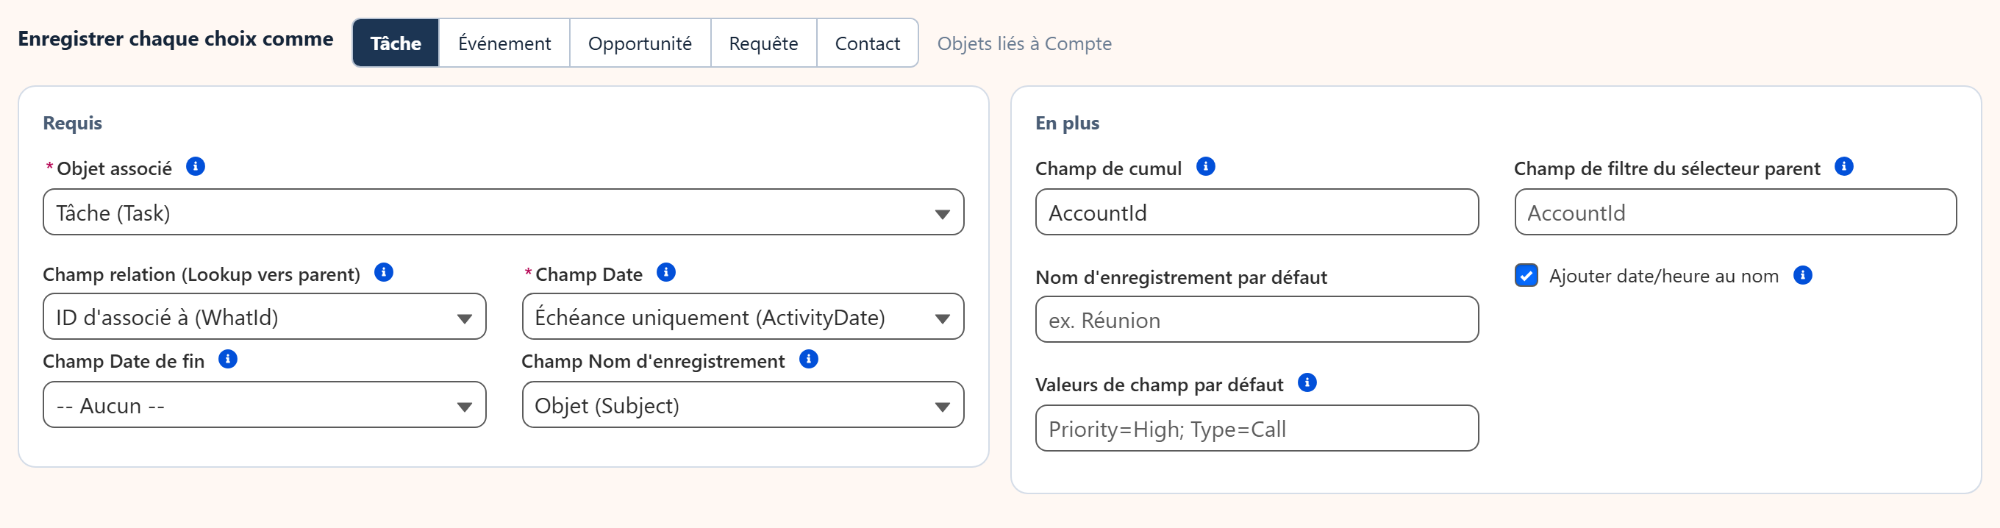
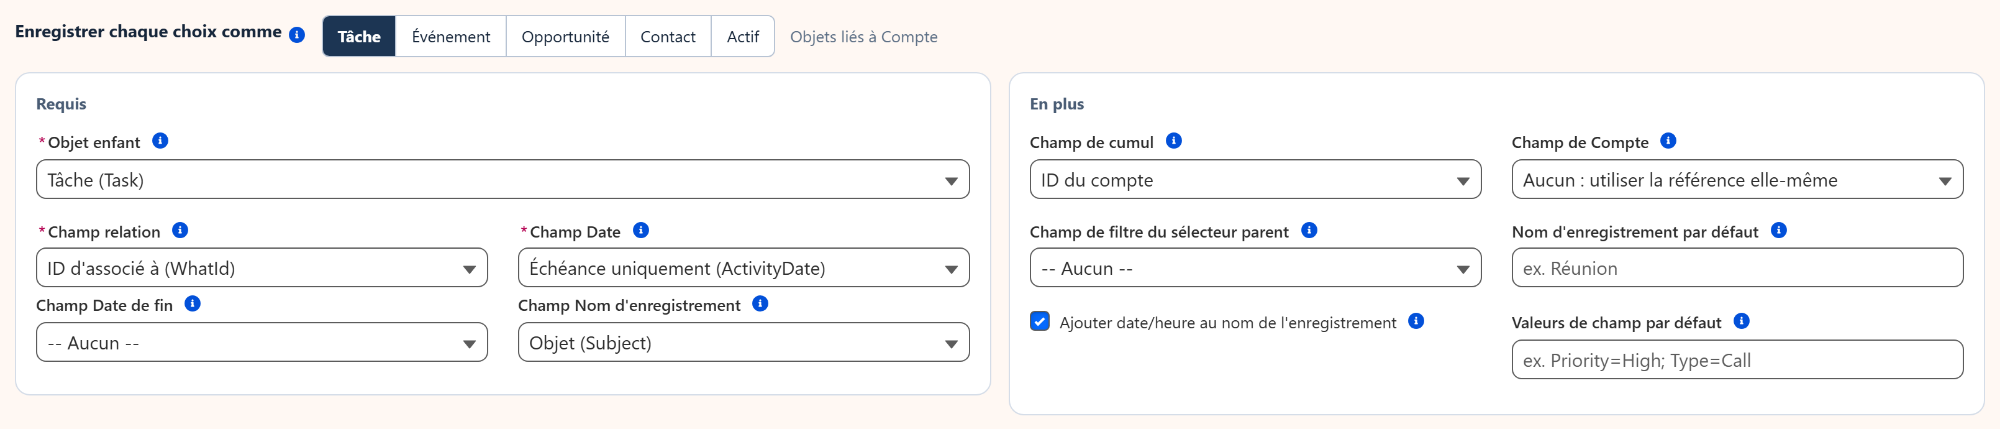
Related-records post: setup screenshot retaken with the Rollup Field picker, in all 9 languages
The wizard image now shows Account ID picked in Rollup Field and Field on Account left on None: use the lookup itself, instead of the old typed AccountId box. Alt, caption, JSON-LD and sitemap captions say it is picked, per language; new size 2000x429.

diff --git a/blog/salesforce-calendar-related-records.html b/blog/salesforce-calendar-related-records.html
@@ -209,7 +209,7 @@
                 {"@type": "FAQPage", "mainEntity": [{"@type": "Question", "name": "How do I show contact and opportunity tasks on a Salesforce account calendar?", "acceptedAnswer": {"@type": "Answer", "text": "Put the MultiDatePick Dates component on the Account record page with Task as the related object and WhatId as the Relationship Field API Name, then enter AccountId in Rollup Field. Salesforce stores the account on tasks logged against the account's contacts and opportunities, so those tasks show on the account calendar next to the account's own."}}, {"@type": "Question", "name": "Can a Salesforce calendar show grandchild records?", "acceptedAnswer": {"@type": "Answer", "text": "Yes. Rollup Field accepts a path through lookups, such as Project__r.Account__c, so a calendar on the Account page shows the records of every project that belongs to the account. A path can be up to five levels deep, which is as far as Salesforce lets a query follow lookups."}}, {"@type": "Question", "name": "Where are new records saved when Rollup Field is set?", "acceptedAnswer": {"@type": "Answer", "text": "Through the Relationship Field API Name, exactly as before. Rollup Field only adds records to what the calendar shows. A day you pick on the Account page saves a record linked to that account, and the related records keep their own parents."}}, {"@type": "Question", "name": "Does the rollup respect sharing and field-level security?", "acceptedAnswer": {"@type": "Answer", "text": "Yes. The calendar loads its records as the person viewing the page, so record sharing and field-level security apply. A user sees the related records they already have access to in Salesforce, and nothing more."}}, {"@type": "Question", "name": "Which MultiDatePick components support Rollup Field?", "acceptedAnswer": {"@type": "Answer", "text": "The Dates and Dates & Times components, for any object they save to, standard or custom. The Resource Booking component uses the same Rollup Field with This Record Only, so its Timeline, Week, Utilization and Agenda views show the bookings tied to the page record through the lookup path."}}]},
                 {"@type": "ImageObject", "contentUrl": "https://multidatepick.com/images/blog/salesforce-account-calendar-direct-tasks-only.png", "caption": "Salesforce account calendar before Rollup Field: Account Visits marks only the four November days with tasks logged on the account itself", "creditText": "MultiDatePick", "creator": {"@type": "Organization", "name": "MultiDatePick"}, "copyrightNotice": "© 2026 MultiDatePick"},
                 {"@type": "ImageObject", "contentUrl": "https://multidatepick.com/images/blog/salesforce-account-calendar-related-records.png", "caption": "Salesforce account calendar with related records: Rollup Field AccountId adds contact and opportunity tasks, eleven November days in status colors", "creditText": "MultiDatePick", "creator": {"@type": "Organization", "name": "MultiDatePick"}, "copyrightNotice": "© 2026 MultiDatePick"},
-                {"@type": "ImageObject", "contentUrl": "https://multidatepick.com/images/blog/salesforce-calendar-rollup-field-setup.png", "caption": "Show related records on a Salesforce calendar: Task saved through Related To (WhatId) on Due Date Only, with AccountId in Rollup Field", "creditText": "MultiDatePick", "creator": {"@type": "Organization", "name": "MultiDatePick"}, "copyrightNotice": "© 2026 MultiDatePick"}
+                {"@type": "ImageObject", "contentUrl": "https://multidatepick.com/images/blog/salesforce-calendar-rollup-field-setup.png", "caption": "Show related records on a Salesforce calendar: Task saved through Related To (WhatId) on Due Date Only, Account ID picked in Rollup Field, Field on Account left on None", "creditText": "MultiDatePick", "creator": {"@type": "Organization", "name": "MultiDatePick"}, "copyrightNotice": "© 2026 MultiDatePick"}
             ]
         }
         </script>
@@ -277,8 +277,8 @@
                     <li><strong>Drop the component on the Account page.</strong> In Lightning App Builder, add the MultiDatePick Dates component and enter the name in <strong>Config Name</strong>. Every account now shows its whole schedule.</li>
                 </ol>
                 <figure class="sc-shot">
-                    <img src="/images/blog/salesforce-calendar-rollup-field-setup.png" alt="Show related records on a Salesforce calendar: Task saved through Related To (WhatId) on Due Date Only, with AccountId in Rollup Field" loading="lazy" width="2000" height="528" data-zoomable>
-                    <figcaption>Task on an Account page: saved through Related To, rolled up through AccountId.</figcaption>
+                    <img src="/images/blog/salesforce-calendar-rollup-field-setup.png" alt="Show related records on a Salesforce calendar: Task saved through Related To (WhatId) on Due Date Only, Account ID picked in Rollup Field, Field on Account left on None" loading="lazy" width="2000" height="429" data-zoomable>
+                    <figcaption>Task on an Account page: saved through Related To, rolled up through Account ID, picked from the list.</figcaption>
                 </figure>
                 <p>Want to create the tasks from the same calendar? <a href="/blog/create-salesforce-tasks-calendar.html">Pick the days and save one Salesforce Task per day</a>. Already have a calendar on the page? Open its config in the wizard, pick the Rollup Field and save. Every page that uses the config picks it up on the next load. The same <strong>Rollup Field</strong> property is also on the component in Lightning App Builder.</p>
 

diff --git a/hi/blog/salesforce-calendar-related-records.html b/hi/blog/salesforce-calendar-related-records.html
@@ -284,7 +284,7 @@
             {
                 "@type": "ImageObject",
                 "contentUrl": "https://multidatepick.com/images/hi/blog/salesforce-calendar-rollup-field-setup.png",
-                "caption": "Salesforce कैलेंडर पर संबंधित रिकॉर्ड दिखाएँ: Related To (WhatId) और Due Date Only से सहेजा गया Task, रोलअप फ़ील्ड में AccountId",
+                "caption": "Salesforce कैलेंडर पर संबंधित रिकॉर्ड दिखाएँ: Related To (WhatId) और Due Date Only से सहेजा गया Task, रोलअप फ़ील्ड में Account ID चुना गया, Account पर फ़ील्ड कोई नहीं पर छोड़ा गया",
                 "creditText": "MultiDatePick",
                 "creator": {
                     "@type": "Organization",
@@ -359,8 +359,8 @@
                     <li><strong>कंपोनेंट को अकाउंट पेज पर लगाएँ।</strong> Lightning App Builder में MultiDatePick Dates कंपोनेंट जोड़ें और <strong>Config Name</strong> में वही नाम डालें। अब हर अकाउंट अपना पूरा शेड्यूल दिखाता है।</li>
                 </ol>
                 <figure class="sc-shot">
-                    <img src="/images/hi/blog/salesforce-calendar-rollup-field-setup.png" alt="Salesforce कैलेंडर पर संबंधित रिकॉर्ड दिखाएँ: Related To (WhatId) और Due Date Only से सहेजा गया Task, रोलअप फ़ील्ड में AccountId" loading="lazy" width="2000" height="528" data-zoomable>
-                    <figcaption>अकाउंट पेज पर टास्क: Related To से सहेजा गया, AccountId से रोलअप।</figcaption>
+                    <img src="/images/hi/blog/salesforce-calendar-rollup-field-setup.png" alt="Salesforce कैलेंडर पर संबंधित रिकॉर्ड दिखाएँ: Related To (WhatId) और Due Date Only से सहेजा गया Task, रोलअप फ़ील्ड में Account ID चुना गया, Account पर फ़ील्ड कोई नहीं पर छोड़ा गया" loading="lazy" width="2000" height="429" data-zoomable>
+                    <figcaption>अकाउंट पेज पर टास्क: Related To से सहेजा गया, सूची से चुने गए Account ID से रोलअप।</figcaption>
                 </figure>
                 <p>उसी कैलेंडर से टास्क बनाना चाहते हैं? <a href="/hi/blog/create-salesforce-tasks-calendar.html">दिन चुनें और हर दिन का एक Salesforce Task सहेजें</a>। पेज पर पहले से कैलेंडर है? विज़ार्ड में उसका कॉन्फ़िगरेशन खोलें, रोलअप फ़ील्ड चुनें और सहेजें। उस कॉन्फ़िगरेशन वाला हर पेज अगली बार लोड होते ही इसे अपना लेता है। यही <strong>Rollup Field</strong> प्रॉपर्टी Lightning App Builder में कंपोनेंट पर भी है।</p>
 

diff --git a/ja/blog/salesforce-calendar-related-records.html b/ja/blog/salesforce-calendar-related-records.html
@@ -284,7 +284,7 @@
             {
                 "@type": "ImageObject",
                 "contentUrl": "https://multidatepick.com/images/ja/blog/salesforce-calendar-rollup-field-setup.png",
-                "caption": "Salesforce カレンダーに関連レコードを表示する設定: ToDo を関連先 (WhatId) と期日のみで保存し、積み上げ項目は AccountId",
+                "caption": "Salesforce カレンダーに関連レコードを表示する設定: ToDo を関連先 (WhatId) と期日のみで保存し、積み上げ項目で取引先 ID を選択、取引先 の項目は「なし」のまま",
                 "creditText": "MultiDatePick",
                 "creator": {
                     "@type": "Organization",
@@ -359,8 +359,8 @@
                     <li><strong>取引先ページにコンポーネントを配置します。</strong> Lightning App Builder で MultiDatePick の Dates コンポーネントを追加し、<strong>Config Name</strong> に設定名を入力します。これで、すべての取引先にその取引先の予定全体が表示されます。</li>
                 </ol>
                 <figure class="sc-shot">
-                    <img src="/images/ja/blog/salesforce-calendar-rollup-field-setup.png" alt="Salesforce カレンダーに関連レコードを表示する設定: ToDo を関連先 (WhatId) と期日のみで保存し、積み上げ項目は AccountId" loading="lazy" width="2000" height="528" data-zoomable>
-                    <figcaption>取引先ページの ToDo: 関連先で保存し、AccountId で積み上げ。</figcaption>
+                    <img src="/images/ja/blog/salesforce-calendar-rollup-field-setup.png" alt="Salesforce カレンダーに関連レコードを表示する設定: ToDo を関連先 (WhatId) と期日のみで保存し、積み上げ項目で取引先 ID を選択、取引先 の項目は「なし」のまま" loading="lazy" width="2000" height="429" data-zoomable>
+                    <figcaption>取引先ページの ToDo: 関連先で保存し、リストから選んだ取引先 ID で積み上げ。</figcaption>
                 </figure>
                 <p>同じカレンダーから ToDo も作成したい場合は、<a href="/ja/blog/create-salesforce-tasks-calendar.html">日を選んで、1 日 1 件の Salesforce ToDo を保存</a>できます。すでにページにカレンダーがある場合は、ウィザードでその設定を開き、積み上げ項目を選んで保存するだけです。その設定を使うすべてのページに、次回の読み込みから反映されます。同じ<strong>積み上げ項目</strong>のプロパティは、Lightning App Builder のコンポーネントにもあります。</p>
 

diff --git a/es/blog/calendario-cuenta-salesforce-registros-relacionados.html b/es/blog/calendario-cuenta-salesforce-registros-relacionados.html
@@ -284,7 +284,7 @@
             {
                 "@type": "ImageObject",
                 "contentUrl": "https://multidatepick.com/images/es/blog/salesforce-calendario-campo-rollup-configuracion.png",
-                "caption": "Registros relacionados en un calendario de Salesforce: Tarea guardada por Relacionado con (WhatId) en Fecha de vencimiento solamente y AccountId en Rollup Field",
+                "caption": "Registros relacionados en un calendario de Salesforce: Tarea guardada por Relacionado con (WhatId) en Fecha de vencimiento solamente, Id. de la cuenta elegido en Campo de acumulación y Campo de Cuenta en Ninguno",
                 "creditText": "MultiDatePick",
                 "creator": {
                     "@type": "Organization",
@@ -359,8 +359,8 @@
                     <li><strong>Coloca el componente en la página de la cuenta.</strong> En Lightning App Builder, añade el componente Dates de MultiDatePick y escribe el nombre en <strong>Config Name</strong>. Ahora cada cuenta muestra toda su agenda.</li>
                 </ol>
                 <figure class="sc-shot">
-                    <img src="/images/es/blog/salesforce-calendario-campo-rollup-configuracion.png" alt="Registros relacionados en un calendario de Salesforce: Tarea guardada por Relacionado con (WhatId) en Fecha de vencimiento solamente y AccountId en Rollup Field" loading="lazy" width="2000" height="528" data-zoomable>
-                    <figcaption>Tarea en una página de cuenta: se guarda mediante Relacionado con y se acumula mediante AccountId.</figcaption>
+                    <img src="/images/es/blog/salesforce-calendario-campo-rollup-configuracion.png" alt="Registros relacionados en un calendario de Salesforce: Tarea guardada por Relacionado con (WhatId) en Fecha de vencimiento solamente, Id. de la cuenta elegido en Campo de acumulación y Campo de Cuenta en Ninguno" loading="lazy" width="2000" height="429" data-zoomable>
+                    <figcaption>Tarea en una página de cuenta: se guarda mediante Relacionado con y se acumula mediante Id. de la cuenta, elegido de la lista.</figcaption>
                 </figure>
                 <p>¿Quieres crear las tareas desde el mismo calendario? <a href="/es/blog/crear-varias-tareas-salesforce-calendario.html">Elige los días y guarda una tarea de Salesforce por día</a>. ¿Ya tienes un calendario en la página? Abre su configuración en el asistente, elige el campo de acumulación y guarda. Todas las páginas que usan esa configuración lo aplican en la siguiente carga. En Lightning App Builder, el componente tiene la misma propiedad como <strong>Rollup Field</strong>.</p>
 

diff --git a/fr/blog/calendrier-compte-salesforce-enregistrements-associes.html b/fr/blog/calendrier-compte-salesforce-enregistrements-associes.html
@@ -284,7 +284,7 @@
             {
                 "@type": "ImageObject",
                 "contentUrl": "https://multidatepick.com/images/fr/blog/salesforce-calendrier-champ-rollup-configuration.png",
-                "caption": "Afficher les enregistrements associés sur un calendrier Salesforce : Tâche via Associé à (WhatId), Échéance uniquement, et AccountId dans Champ de cumul",
+                "caption": "Afficher les enregistrements associés sur un calendrier Salesforce : Tâche via Associé à (WhatId), Échéance uniquement, ID du compte choisi dans Champ de cumul et Champ de Compte laissé sur Aucun",
                 "creditText": "MultiDatePick",
                 "creator": {
                     "@type": "Organization",
@@ -359,8 +359,8 @@
                     <li><strong>Placez le composant sur la page du compte.</strong> Dans Lightning App Builder, ajoutez le composant MultiDatePick Dates et saisissez le nom dans <strong>Config Name</strong>. Chaque compte affiche désormais tout son planning.</li>
                 </ol>
                 <figure class="sc-shot">
-                    <img src="/images/fr/blog/salesforce-calendrier-champ-rollup-configuration.png" alt="Afficher les enregistrements associés sur un calendrier Salesforce : Tâche via Associé à (WhatId), Échéance uniquement, et AccountId dans Champ de cumul" loading="lazy" width="2000" height="528" data-zoomable>
-                    <figcaption>Tâche sur une page de compte : créée via Associé à, cumulée via AccountId.</figcaption>
+                    <img src="/images/fr/blog/salesforce-calendrier-champ-rollup-configuration.png" alt="Afficher les enregistrements associés sur un calendrier Salesforce : Tâche via Associé à (WhatId), Échéance uniquement, ID du compte choisi dans Champ de cumul et Champ de Compte laissé sur Aucun" loading="lazy" width="2000" height="429" data-zoomable>
+                    <figcaption>Tâche sur une page de compte : créée via Associé à, cumulée via l'ID du compte choisi dans la liste.</figcaption>
                 </figure>
                 <p>Vous voulez créer les tâches depuis ce même calendrier ? <a href="/fr/blog/creer-plusieurs-taches-salesforce-calendrier.html">Choisissez les jours et enregistrez une tâche Salesforce par jour</a>. Vous avez déjà un calendrier sur la page ? Ouvrez sa configuration dans l'assistant, choisissez le champ de cumul et enregistrez. Chaque page qui utilise cette configuration le prend en compte au prochain chargement. La même propriété <strong>Rollup Field</strong> existe aussi sur le composant dans Lightning App Builder.</p>
 

diff --git a/de/blog/salesforce-account-kalender-verknuepfte-datensaetze.html b/de/blog/salesforce-account-kalender-verknuepfte-datensaetze.html
@@ -284,7 +284,7 @@
             {
                 "@type": "ImageObject",
                 "contentUrl": "https://multidatepick.com/images/de/blog/salesforce-kalender-rollup-feld-einrichtung.png",
-                "caption": "Verknüpfte Datensätze im Salesforce-Kalender zeigen: Aufgabe über Bezug zu (WhatId) mit Nur Fälligkeitsdatum gespeichert, AccountId im Rollup-Feld",
+                "caption": "Verknüpfte Datensätze im Salesforce-Kalender zeigen: Aufgabe über Bezug zu (WhatId) mit Nur Fälligkeitsdatum gespeichert, Account-ID im Rollup-Feld ausgewählt, Feld in Account auf Keins",
                 "creditText": "MultiDatePick",
                 "creator": {
                     "@type": "Organization",
@@ -359,8 +359,8 @@
                     <li><strong>Die Komponente auf die Account-Seite ziehen.</strong> Fügen Sie im Lightning App Builder die MultiDatePick-Komponente Dates hinzu und tragen Sie den Namen unter <strong>Config Name</strong> ein. Jeder Account zeigt jetzt alle seine Termine.</li>
                 </ol>
                 <figure class="sc-shot">
-                    <img src="/images/de/blog/salesforce-kalender-rollup-feld-einrichtung.png" alt="Verknüpfte Datensätze im Salesforce-Kalender zeigen: Aufgabe über Bezug zu (WhatId) mit Nur Fälligkeitsdatum gespeichert, AccountId im Rollup-Feld" loading="lazy" width="2000" height="564" data-zoomable>
-                    <figcaption>Aufgabe auf einer Account-Seite: gespeichert über WhatId, aufgerollt über AccountId.</figcaption>
+                    <img src="/images/de/blog/salesforce-kalender-rollup-feld-einrichtung.png" alt="Verknüpfte Datensätze im Salesforce-Kalender zeigen: Aufgabe über Bezug zu (WhatId) mit Nur Fälligkeitsdatum gespeichert, Account-ID im Rollup-Feld ausgewählt, Feld in Account auf Keins" loading="lazy" width="2000" height="429" data-zoomable>
+                    <figcaption>Aufgabe auf einer Account-Seite: gespeichert über Bezug zu, aufgerollt über die Account-ID, aus der Liste ausgewählt.</figcaption>
                 </figure>
                 <p>Sie möchten die Aufgaben direkt in diesem Kalender anlegen? <a href="/de/blog/salesforce-mehrere-aufgaben-im-kalender-erstellen.html">Tage wählen und pro Tag eine Salesforce-Aufgabe speichern</a>. Sie haben schon einen Kalender auf der Seite? Öffnen Sie seine Konfiguration im Assistenten, wählen Sie das Rollup-Feld aus und speichern Sie. Jede Seite, die diese Konfiguration nutzt, übernimmt es beim nächsten Laden. Dieselbe Eigenschaft <strong>Rollup Field</strong> gibt es auch an der Komponente im Lightning App Builder.</p>
 

diff --git a/pt-br/blog/calendario-conta-salesforce-registros-relacionados.html b/pt-br/blog/calendario-conta-salesforce-registros-relacionados.html
@@ -284,7 +284,7 @@
             {
                 "@type": "ImageObject",
                 "contentUrl": "https://multidatepick.com/images/pt-br/blog/salesforce-calendario-campo-rollup-configuracao.png",
-                "caption": "Registros relacionados em um calendário Salesforce: Tarefa salva por Relativo a (WhatId) em Somente data de vencimento, com AccountId no Campo de consolidação",
+                "caption": "Registros relacionados em um calendário Salesforce: Tarefa salva por Relativo a (WhatId) em Somente data de vencimento, ID da conta escolhido no Campo de consolidação, Campo de Conta deixado em Nenhum",
                 "creditText": "MultiDatePick",
                 "creator": {
                     "@type": "Organization",
@@ -359,8 +359,8 @@
                     <li><strong>Coloque o componente na página da conta.</strong> No Lightning App Builder, adicione o componente Dates do MultiDatePick e informe o nome em <strong>Config Name</strong>. Agora toda conta mostra a agenda completa.</li>
                 </ol>
                 <figure class="sc-shot">
-                    <img src="/images/pt-br/blog/salesforce-calendario-campo-rollup-configuracao.png" alt="Registros relacionados em um calendário Salesforce: Tarefa salva por Relativo a (WhatId) em Somente data de vencimento, com AccountId no Campo de consolidação" loading="lazy" width="2000" height="528" data-zoomable>
-                    <figcaption>Tarefa em uma página de conta: salva pelo campo Relativo a, consolidada por AccountId.</figcaption>
+                    <img src="/images/pt-br/blog/salesforce-calendario-campo-rollup-configuracao.png" alt="Registros relacionados em um calendário Salesforce: Tarefa salva por Relativo a (WhatId) em Somente data de vencimento, ID da conta escolhido no Campo de consolidação, Campo de Conta deixado em Nenhum" loading="lazy" width="2000" height="429" data-zoomable>
+                    <figcaption>Tarefa em uma página de conta: salva pelo campo Relativo a, consolidada pelo ID da conta, escolhido na lista.</figcaption>
                 </figure>
                 <p>Quer criar as tarefas pelo mesmo calendário? <a href="/pt-br/blog/criar-varias-tarefas-salesforce-calendario.html">Escolha os dias e salve uma Tarefa do Salesforce por dia</a>. Já tem um calendário na página? Abra a configuração dele no assistente, escolha o Campo de consolidação e salve. Toda página que usa a configuração aplica a mudança no próximo carregamento. A mesma propriedade <strong>Rollup Field</strong> também está no componente no Lightning App Builder.</p>
 

diff --git a/it/blog/calendario-account-salesforce-record-correlati.html b/it/blog/calendario-account-salesforce-record-correlati.html
@@ -284,7 +284,7 @@
             {
                 "@type": "ImageObject",
                 "contentUrl": "https://multidatepick.com/images/it/blog/salesforce-calendario-campo-rollup-configurazione.png",
-                "caption": "Record correlati in un calendario Salesforce: Attività salvata tramite Correlato a (WhatId) in Solo scadenza, con AccountId nel Campo di aggregazione",
+                "caption": "Record correlati in un calendario Salesforce: Attività salvata tramite Correlato a (WhatId) in Solo scadenza, ID account scelto nel Campo di aggregazione, Campo di Account lasciato su Nessuno",
                 "creditText": "MultiDatePick",
                 "creator": {
                     "@type": "Organization",
@@ -359,8 +359,8 @@
                     <li><strong>Inserisci il componente nella pagina Account.</strong> In Lightning App Builder aggiungi il componente MultiDatePick Dates e scrivi il nome in <strong>Config Name</strong>. Ora ogni account mostra il suo programma completo.</li>
                 </ol>
                 <figure class="sc-shot">
-                    <img src="/images/it/blog/salesforce-calendario-campo-rollup-configurazione.png" alt="Record correlati in un calendario Salesforce: Attività salvata tramite Correlato a (WhatId) in Solo scadenza, con AccountId nel Campo di aggregazione" loading="lazy" width="2000" height="528" data-zoomable>
-                    <figcaption>Attività in una pagina Account: salvata tramite Correlato a, aggregata tramite AccountId.</figcaption>
+                    <img src="/images/it/blog/salesforce-calendario-campo-rollup-configurazione.png" alt="Record correlati in un calendario Salesforce: Attività salvata tramite Correlato a (WhatId) in Solo scadenza, ID account scelto nel Campo di aggregazione, Campo di Account lasciato su Nessuno" loading="lazy" width="2000" height="429" data-zoomable>
+                    <figcaption>Attività in una pagina Account: salvata tramite Correlato a, aggregata tramite ID account, scelto dall'elenco.</figcaption>
                 </figure>
                 <p>Vuoi creare le attività dallo stesso calendario? <a href="/it/blog/creare-piu-attivita-salesforce-calendario.html">Scegli i giorni e salva un'attività Salesforce per giorno</a>. Hai già un calendario nella pagina? Apri la sua configurazione nella configurazione guidata, scegli il Campo di aggregazione e salva. Ogni pagina che usa quella configurazione lo applica al caricamento successivo. La stessa proprietà <strong>Rollup Field</strong> si trova anche sul componente in Lightning App Builder.</p>
 

diff --git a/zh/blog/salesforce-calendar-related-records.html b/zh/blog/salesforce-calendar-related-records.html
@@ -284,7 +284,7 @@
             {
                 "@type": "ImageObject",
                 "contentUrl": "https://multidatepick.com/images/zh/blog/salesforce-calendar-rollup-field-setup.png",
-                "caption": "在 Salesforce 日历上显示相关记录：任务通过相关项（WhatId）保存在仅到期日期上，汇总字段为 AccountId",
+                "caption": "在 Salesforce 日历上显示相关记录：任务通过相关项（WhatId）保存在仅到期日期上，在汇总字段中选择客户 ID，客户 上的字段保持为无",
                 "creditText": "MultiDatePick",
                 "creator": {
                     "@type": "Organization",
@@ -359,8 +359,8 @@
                     <li><strong>把组件放到客户页面上。</strong>在 Lightning App Builder 中添加 MultiDatePick Dates 组件，并在 <strong>Config Name</strong> 中输入配置名称。现在每个客户都会显示完整的日程。</li>
                 </ol>
                 <figure class="sc-shot">
-                    <img src="/images/zh/blog/salesforce-calendar-rollup-field-setup.png" alt="在 Salesforce 日历上显示相关记录：任务通过相关项（WhatId）保存在仅到期日期上，汇总字段为 AccountId" loading="lazy" width="2000" height="528" data-zoomable>
-                    <figcaption>客户页面上的任务：通过相关项保存，通过 AccountId 汇总。</figcaption>
+                    <img src="/images/zh/blog/salesforce-calendar-rollup-field-setup.png" alt="在 Salesforce 日历上显示相关记录：任务通过相关项（WhatId）保存在仅到期日期上，在汇总字段中选择客户 ID，客户 上的字段保持为无" loading="lazy" width="2000" height="429" data-zoomable>
+                    <figcaption>客户页面上的任务：通过相关项保存，通过从列表中选择的客户 ID 汇总。</figcaption>
                 </figure>
                 <p>想直接在同一个日历上创建任务？<a href="/zh/blog/create-salesforce-tasks-calendar.html">选好日期，每天保存一条 Salesforce 任务</a>。页面上已经有日历了？在向导中打开它的配置，选择汇总字段并保存。所有使用该配置的页面在下次加载时都会生效。Lightning App Builder 中的组件上也有同一个 <strong>Rollup Field</strong> 属性。</p>
 
